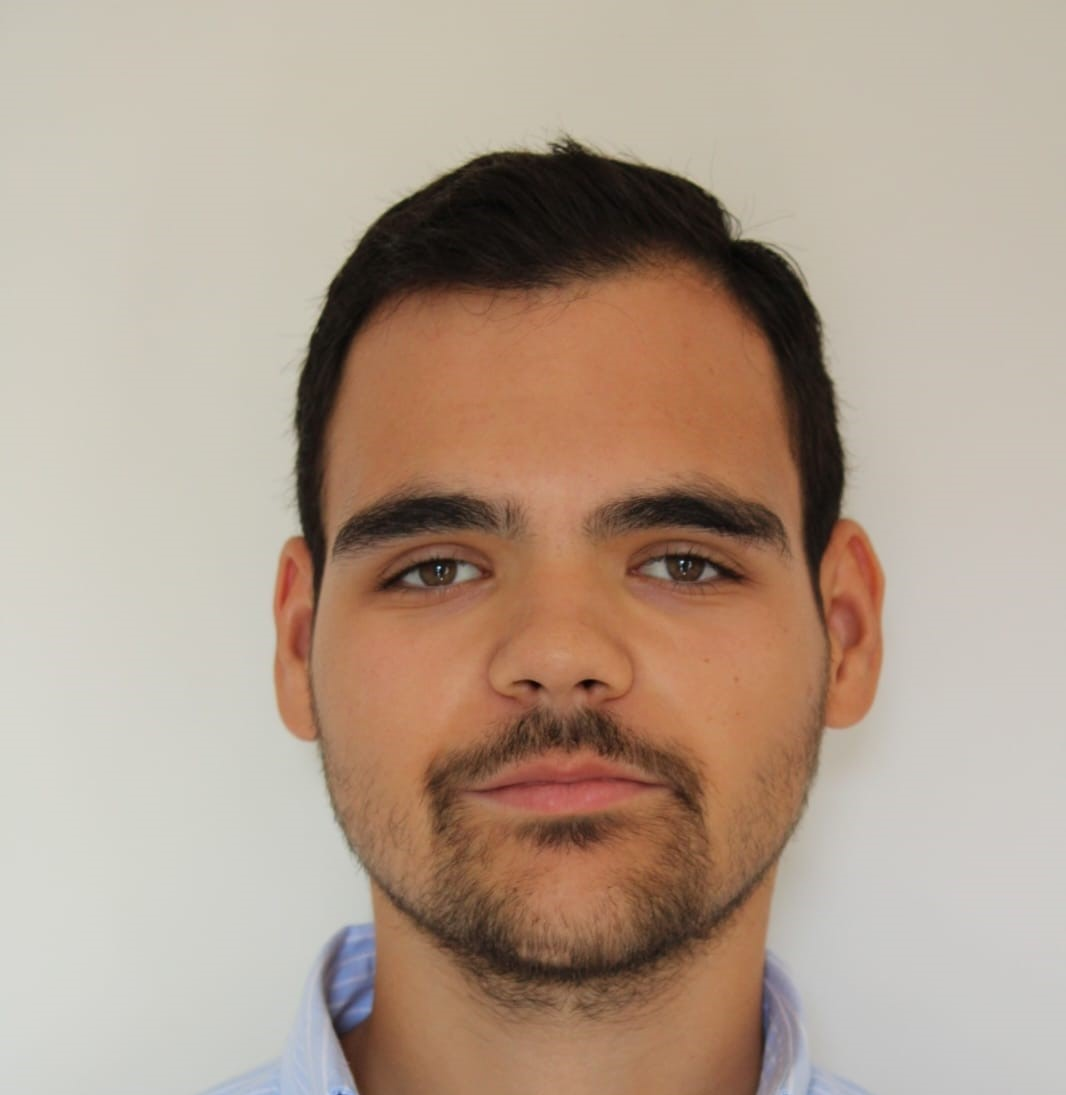
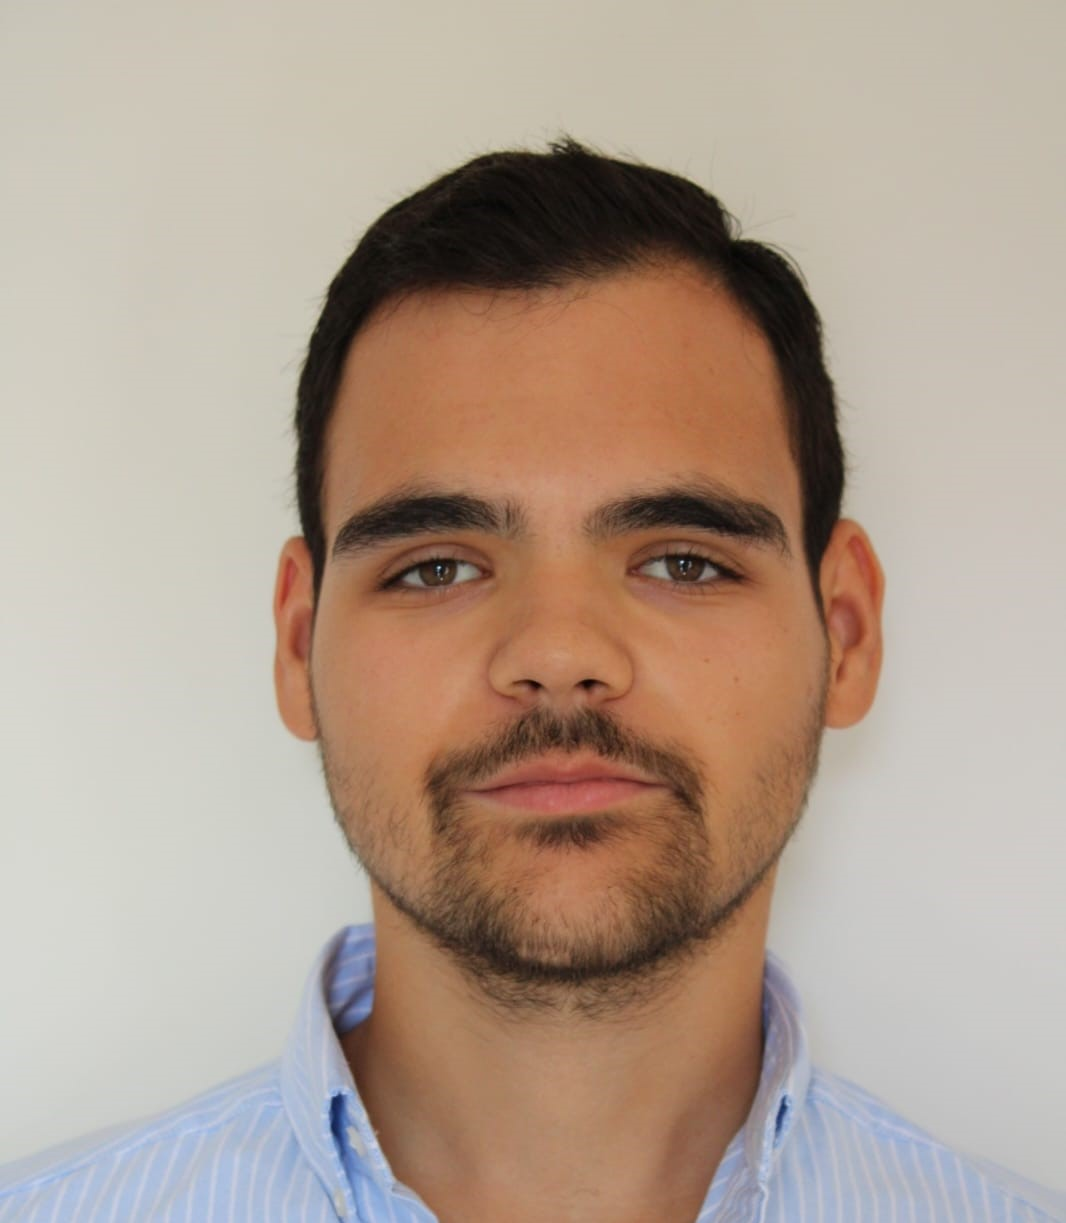
Modificación de ficheros

Changed region(s): [[0.0, 0.0932, 1.0, 1.0]]

diff --git a/index.html b/index.html
@@ -36,6 +36,9 @@
             color: #075985;
         }
 
+        .foto{
+            width:  8rem;
+        }
 
     </style>
 </head>
@@ -101,9 +104,9 @@
                     <div class="bg-white rounded-2xl shadow-xl p-8 border border-slate-100 w-full max-w-sm">
                         <div class="flex justify-center -mt-20">
                             <img src="img/perfil.jpg"
-                                 onerror="this.onerror=null;this.src='https://placehold.co/128x128/075985/ffffff?text=PL';"
+                                 onerror="this.onerror=null;this.src='img/perfil.jpg';"
                                  alt="Pablo Lupión"
-                                 class="w-40 h-40 rounded-full object-cover border-4 border-white shadow-lg">
+                                 class="foto rounded-full object-cover border-4 border-white shadow-lg">
                         </div>
 
                         <div class="text-center mt-4">
